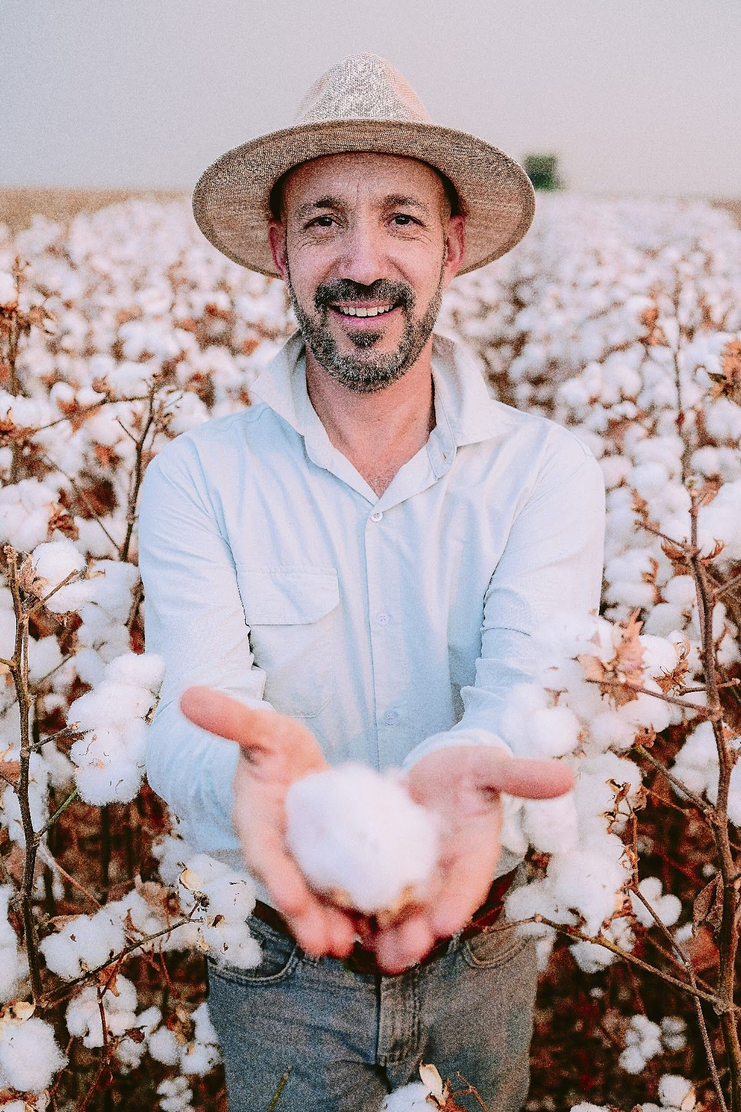
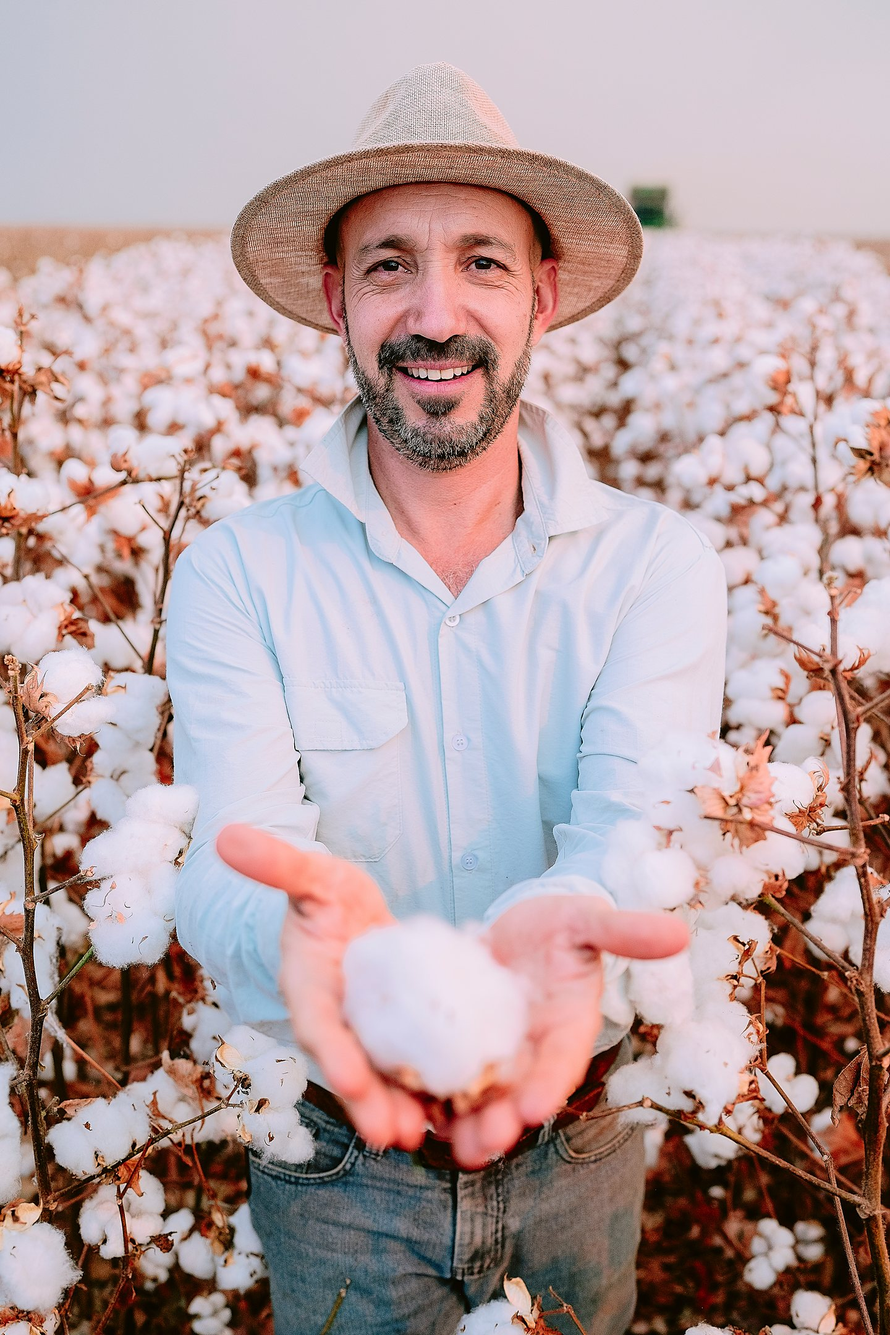
Fotos do site a partir dos originais, em sRGB (sem a recompressão das miniaturas do Drive)

diff --git a/docs/index.html b/docs/index.html
@@ -214,10 +214,10 @@
     <div class="palco">
       <!-- FOTOS: 4 fotos fortes, na vertical (4:5), cada uma de um tipo de trabalho (show, agro, cultura, esporte...) para mostrar a variedade -->
       <div class="slides">
-        <div class="foto ativa" data-legenda="Foto 1 · esporte"><img src="assets/fotos/corrida-de-reis-chegada.jpg" alt="Corredor de braços erguidos na chegada da Corrida de Reis" width="1200" height="1800"></div>
-        <div class="foto" data-legenda="Foto 2 · show"><img src="assets/fotos/sicredi-festival-show.jpg" alt="Cantor no palco do Festival de Inverno Sicredi, contra a luz" width="1200" height="1800" loading="lazy"></div>
-        <div class="foto" data-legenda="Foto 3 · agro"><img src="assets/fotos/aa-algodao-na-mao.jpg" alt="Produtor sorrindo com algodão nas mãos, no meio da lavoura, em produção para a Agro Amazônia" width="1200" height="1800" loading="lazy"></div>
-        <div class="foto" data-legenda="Foto 4 · cultura"><img src="assets/fotos/sesi-teatro-por-elas.jpg" alt="Cantora de braços abertos com a Orquestra SESI, no palco cheio de flores" width="1600" height="1066" style="object-position: 9% 50%" loading="lazy"></div>
+        <div class="foto ativa" data-legenda="Foto 1 · esporte"><img src="assets/fotos/corrida-de-reis-chegada.jpg" alt="Corredor de braços erguidos na chegada da Corrida de Reis" width="1440" height="2160"></div>
+        <div class="foto" data-legenda="Foto 2 · show"><img src="assets/fotos/sicredi-festival-show.jpg" alt="Cantor no palco do Festival de Inverno Sicredi, contra a luz" width="1440" height="2160" loading="lazy"></div>
+        <div class="foto" data-legenda="Foto 3 · agro"><img src="assets/fotos/aa-algodao-na-mao.jpg" alt="Produtor sorrindo com algodão nas mãos, no meio da lavoura, em produção para a Agro Amazônia" width="1440" height="2160" loading="lazy"></div>
+        <div class="foto" data-legenda="Foto 4 · cultura"><img src="assets/fotos/sesi-teatro-por-elas.jpg" alt="Cantora de braços abertos com a Orquestra SESI, no palco cheio de flores" width="2160" height="1440" style="object-position: 9% 50%" loading="lazy"></div>
       </div>
       <div class="legenda-palco">
         <span class="rotulo">George Dias Audiovisual</span>
@@ -280,7 +280,7 @@
 
 <div class="faixa">
   <!-- FOTO: a imagem mais forte, bem larga (21:9) -->
-  <div class="foto" data-legenda="Foto de ponta a ponta"><img src="assets/fotos/sesi-sertao-danca.jpg" alt="Bailarinas no espetáculo O Sertão Dentro de Nós, no Teatro do SESI" width="2000" height="1333" loading="lazy"></div>
+  <div class="foto" data-legenda="Foto de ponta a ponta"><img src="assets/fotos/sesi-sertao-danca.jpg" alt="Bailarinas no espetáculo O Sertão Dentro de Nós, no Teatro do SESI" width="2160" height="1440" loading="lazy"></div>
 </div>
 
 <section class="fazemos">

diff --git a/pagina.html b/pagina.html
@@ -191,10 +191,10 @@
     <div class="palco">
       <!-- FOTOS: 4 fotos fortes, na vertical (4:5), cada uma de um tipo de trabalho (show, agro, cultura, esporte...) para mostrar a variedade -->
       <div class="slides">
-        <div class="foto ativa" data-legenda="Foto 1 · esporte"><img src="assets/fotos/corrida-de-reis-chegada.jpg" alt="Corredor de braços erguidos na chegada da Corrida de Reis" width="1200" height="1800"></div>
-        <div class="foto" data-legenda="Foto 2 · show"><img src="assets/fotos/sicredi-festival-show.jpg" alt="Cantor no palco do Festival de Inverno Sicredi, contra a luz" width="1200" height="1800" loading="lazy"></div>
-        <div class="foto" data-legenda="Foto 3 · agro"><img src="assets/fotos/aa-algodao-na-mao.jpg" alt="Produtor sorrindo com algodão nas mãos, no meio da lavoura, em produção para a Agro Amazônia" width="1200" height="1800" loading="lazy"></div>
-        <div class="foto" data-legenda="Foto 4 · cultura"><img src="assets/fotos/sesi-teatro-por-elas.jpg" alt="Cantora de braços abertos com a Orquestra SESI, no palco cheio de flores" width="1600" height="1066" style="object-position: 9% 50%" loading="lazy"></div>
+        <div class="foto ativa" data-legenda="Foto 1 · esporte"><img src="assets/fotos/corrida-de-reis-chegada.jpg" alt="Corredor de braços erguidos na chegada da Corrida de Reis" width="1440" height="2160"></div>
+        <div class="foto" data-legenda="Foto 2 · show"><img src="assets/fotos/sicredi-festival-show.jpg" alt="Cantor no palco do Festival de Inverno Sicredi, contra a luz" width="1440" height="2160" loading="lazy"></div>
+        <div class="foto" data-legenda="Foto 3 · agro"><img src="assets/fotos/aa-algodao-na-mao.jpg" alt="Produtor sorrindo com algodão nas mãos, no meio da lavoura, em produção para a Agro Amazônia" width="1440" height="2160" loading="lazy"></div>
+        <div class="foto" data-legenda="Foto 4 · cultura"><img src="assets/fotos/sesi-teatro-por-elas.jpg" alt="Cantora de braços abertos com a Orquestra SESI, no palco cheio de flores" width="2160" height="1440" style="object-position: 9% 50%" loading="lazy"></div>
       </div>
       <div class="legenda-palco">
         <span class="rotulo">George Dias Audiovisual</span>
@@ -257,7 +257,7 @@
 
 <div class="faixa">
   <!-- FOTO: a imagem mais forte, bem larga (21:9) -->
-  <div class="foto" data-legenda="Foto de ponta a ponta"><img src="assets/fotos/sesi-sertao-danca.jpg" alt="Bailarinas no espetáculo O Sertão Dentro de Nós, no Teatro do SESI" width="2000" height="1333" loading="lazy"></div>
+  <div class="foto" data-legenda="Foto de ponta a ponta"><img src="assets/fotos/sesi-sertao-danca.jpg" alt="Bailarinas no espetáculo O Sertão Dentro de Nós, no Teatro do SESI" width="2160" height="1440" loading="lazy"></div>
 </div>
 
 <section class="fazemos">
